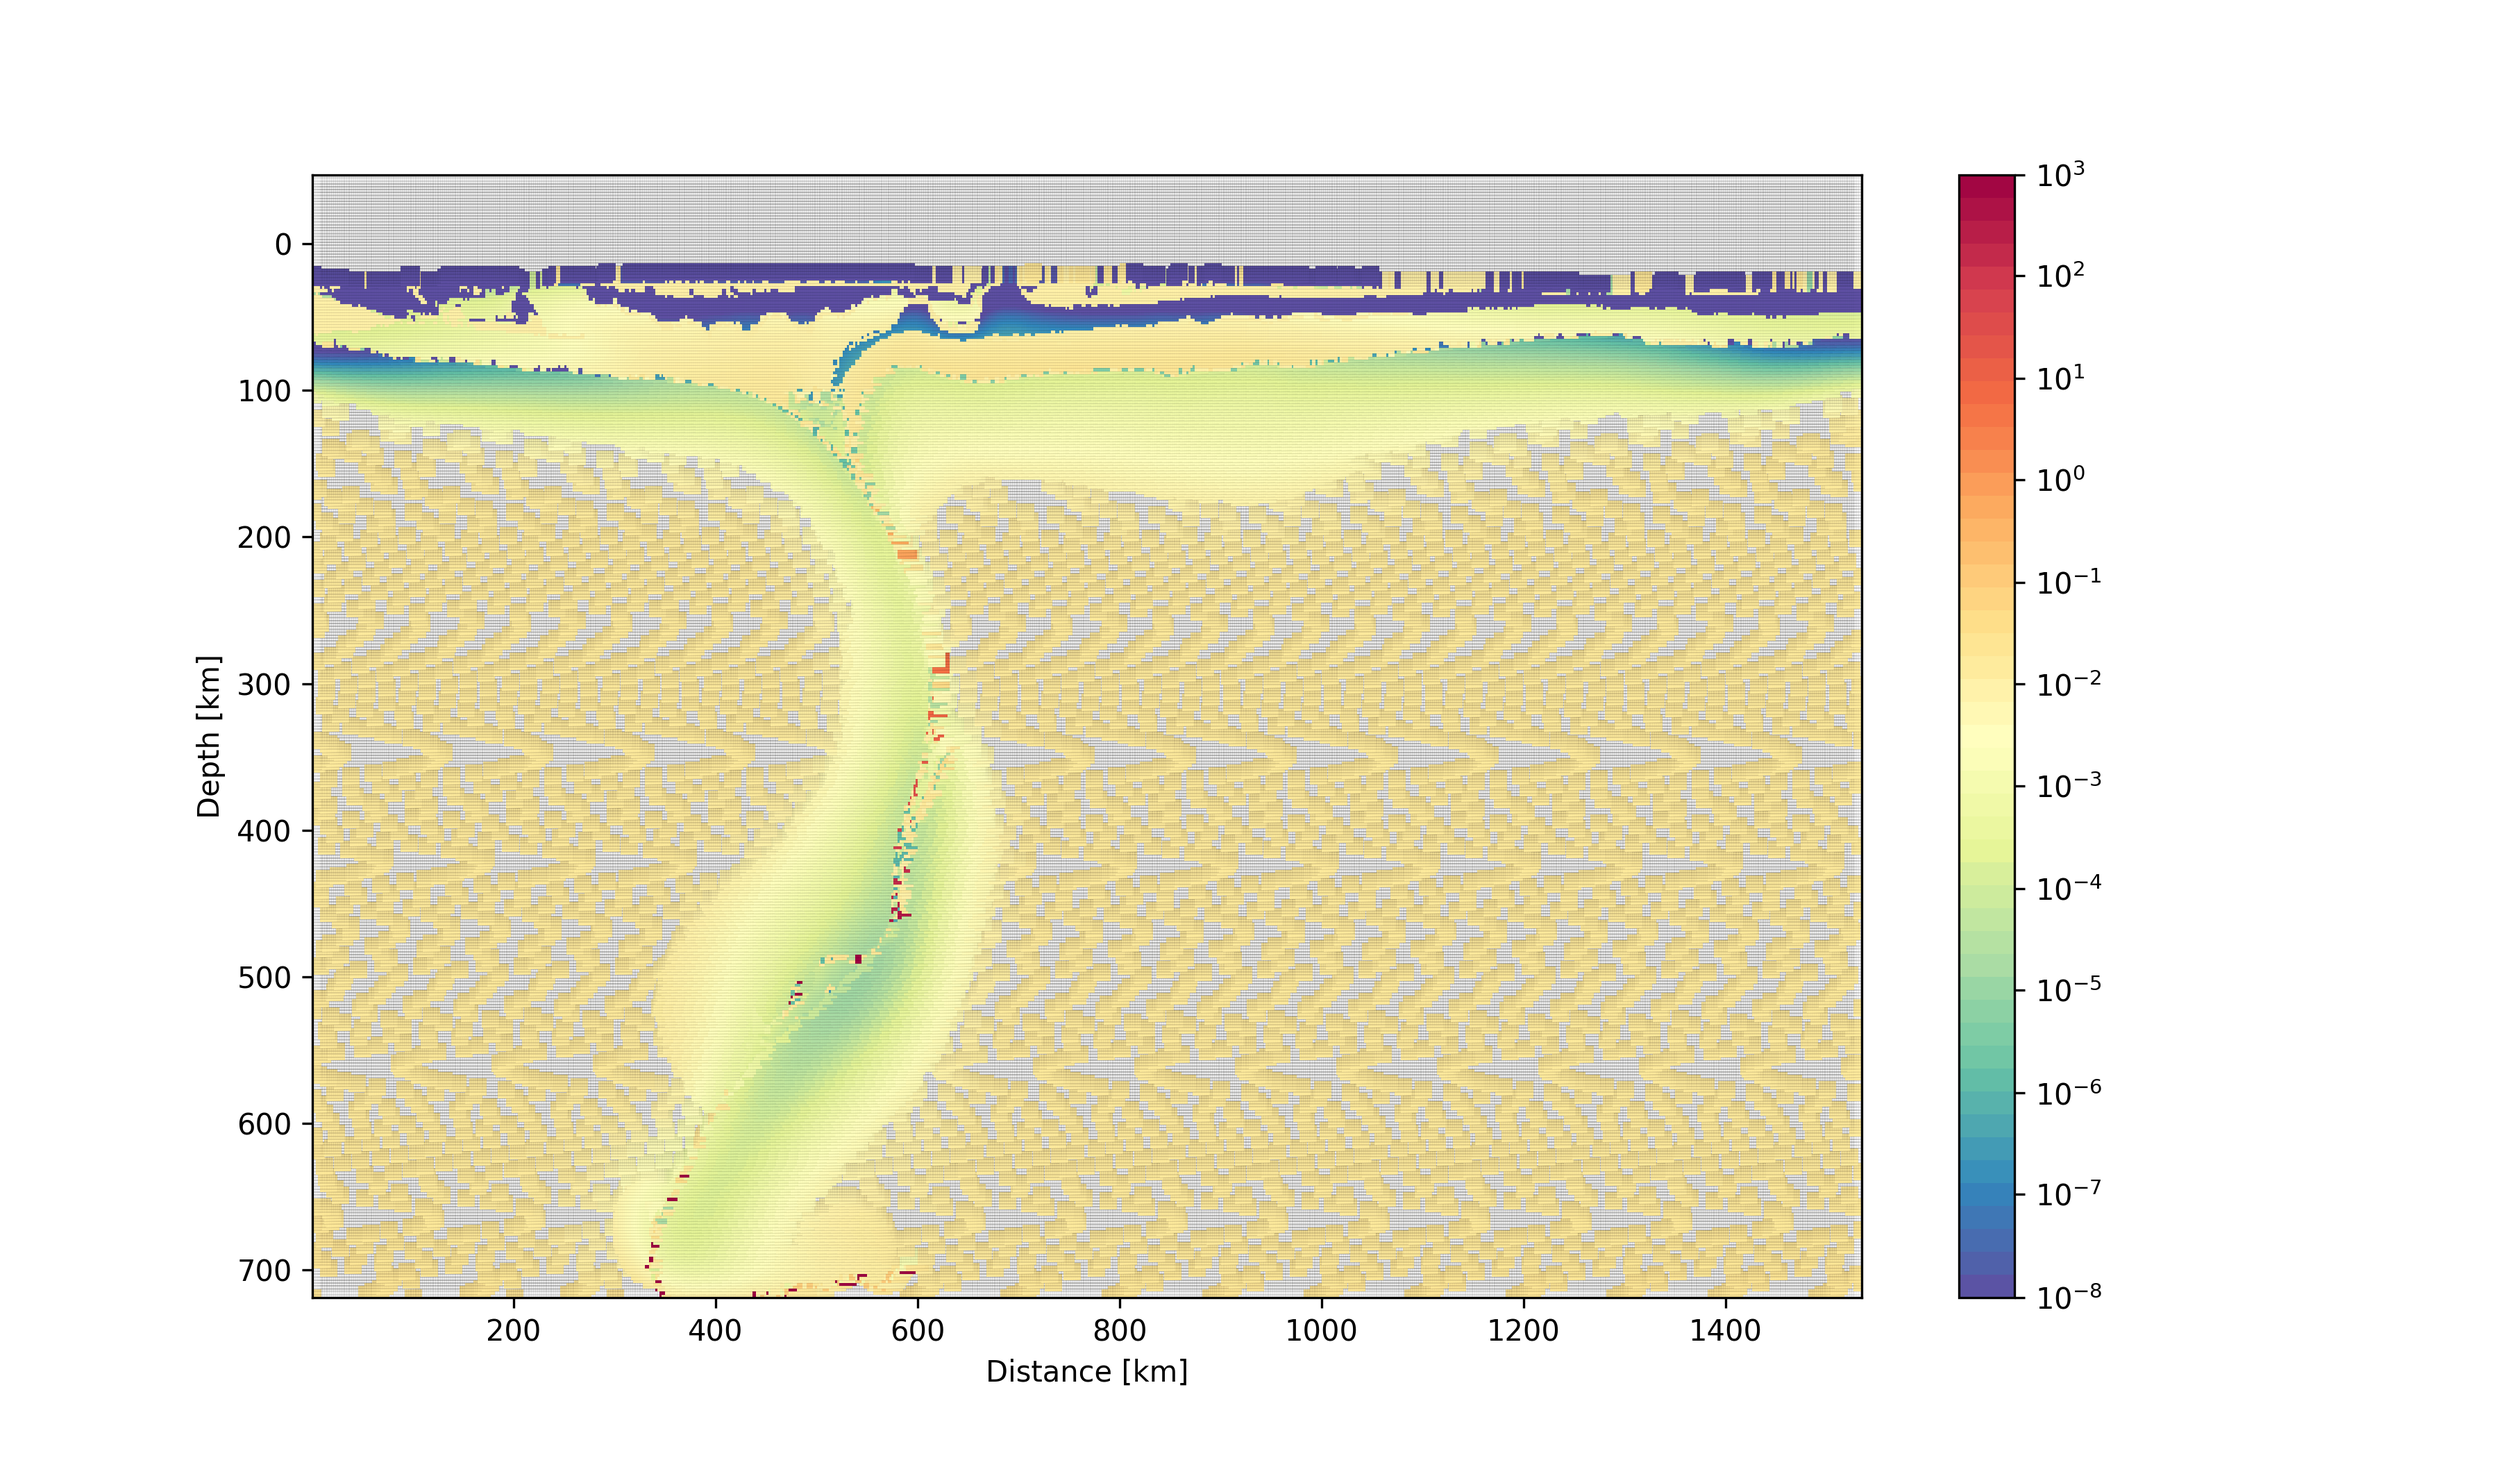
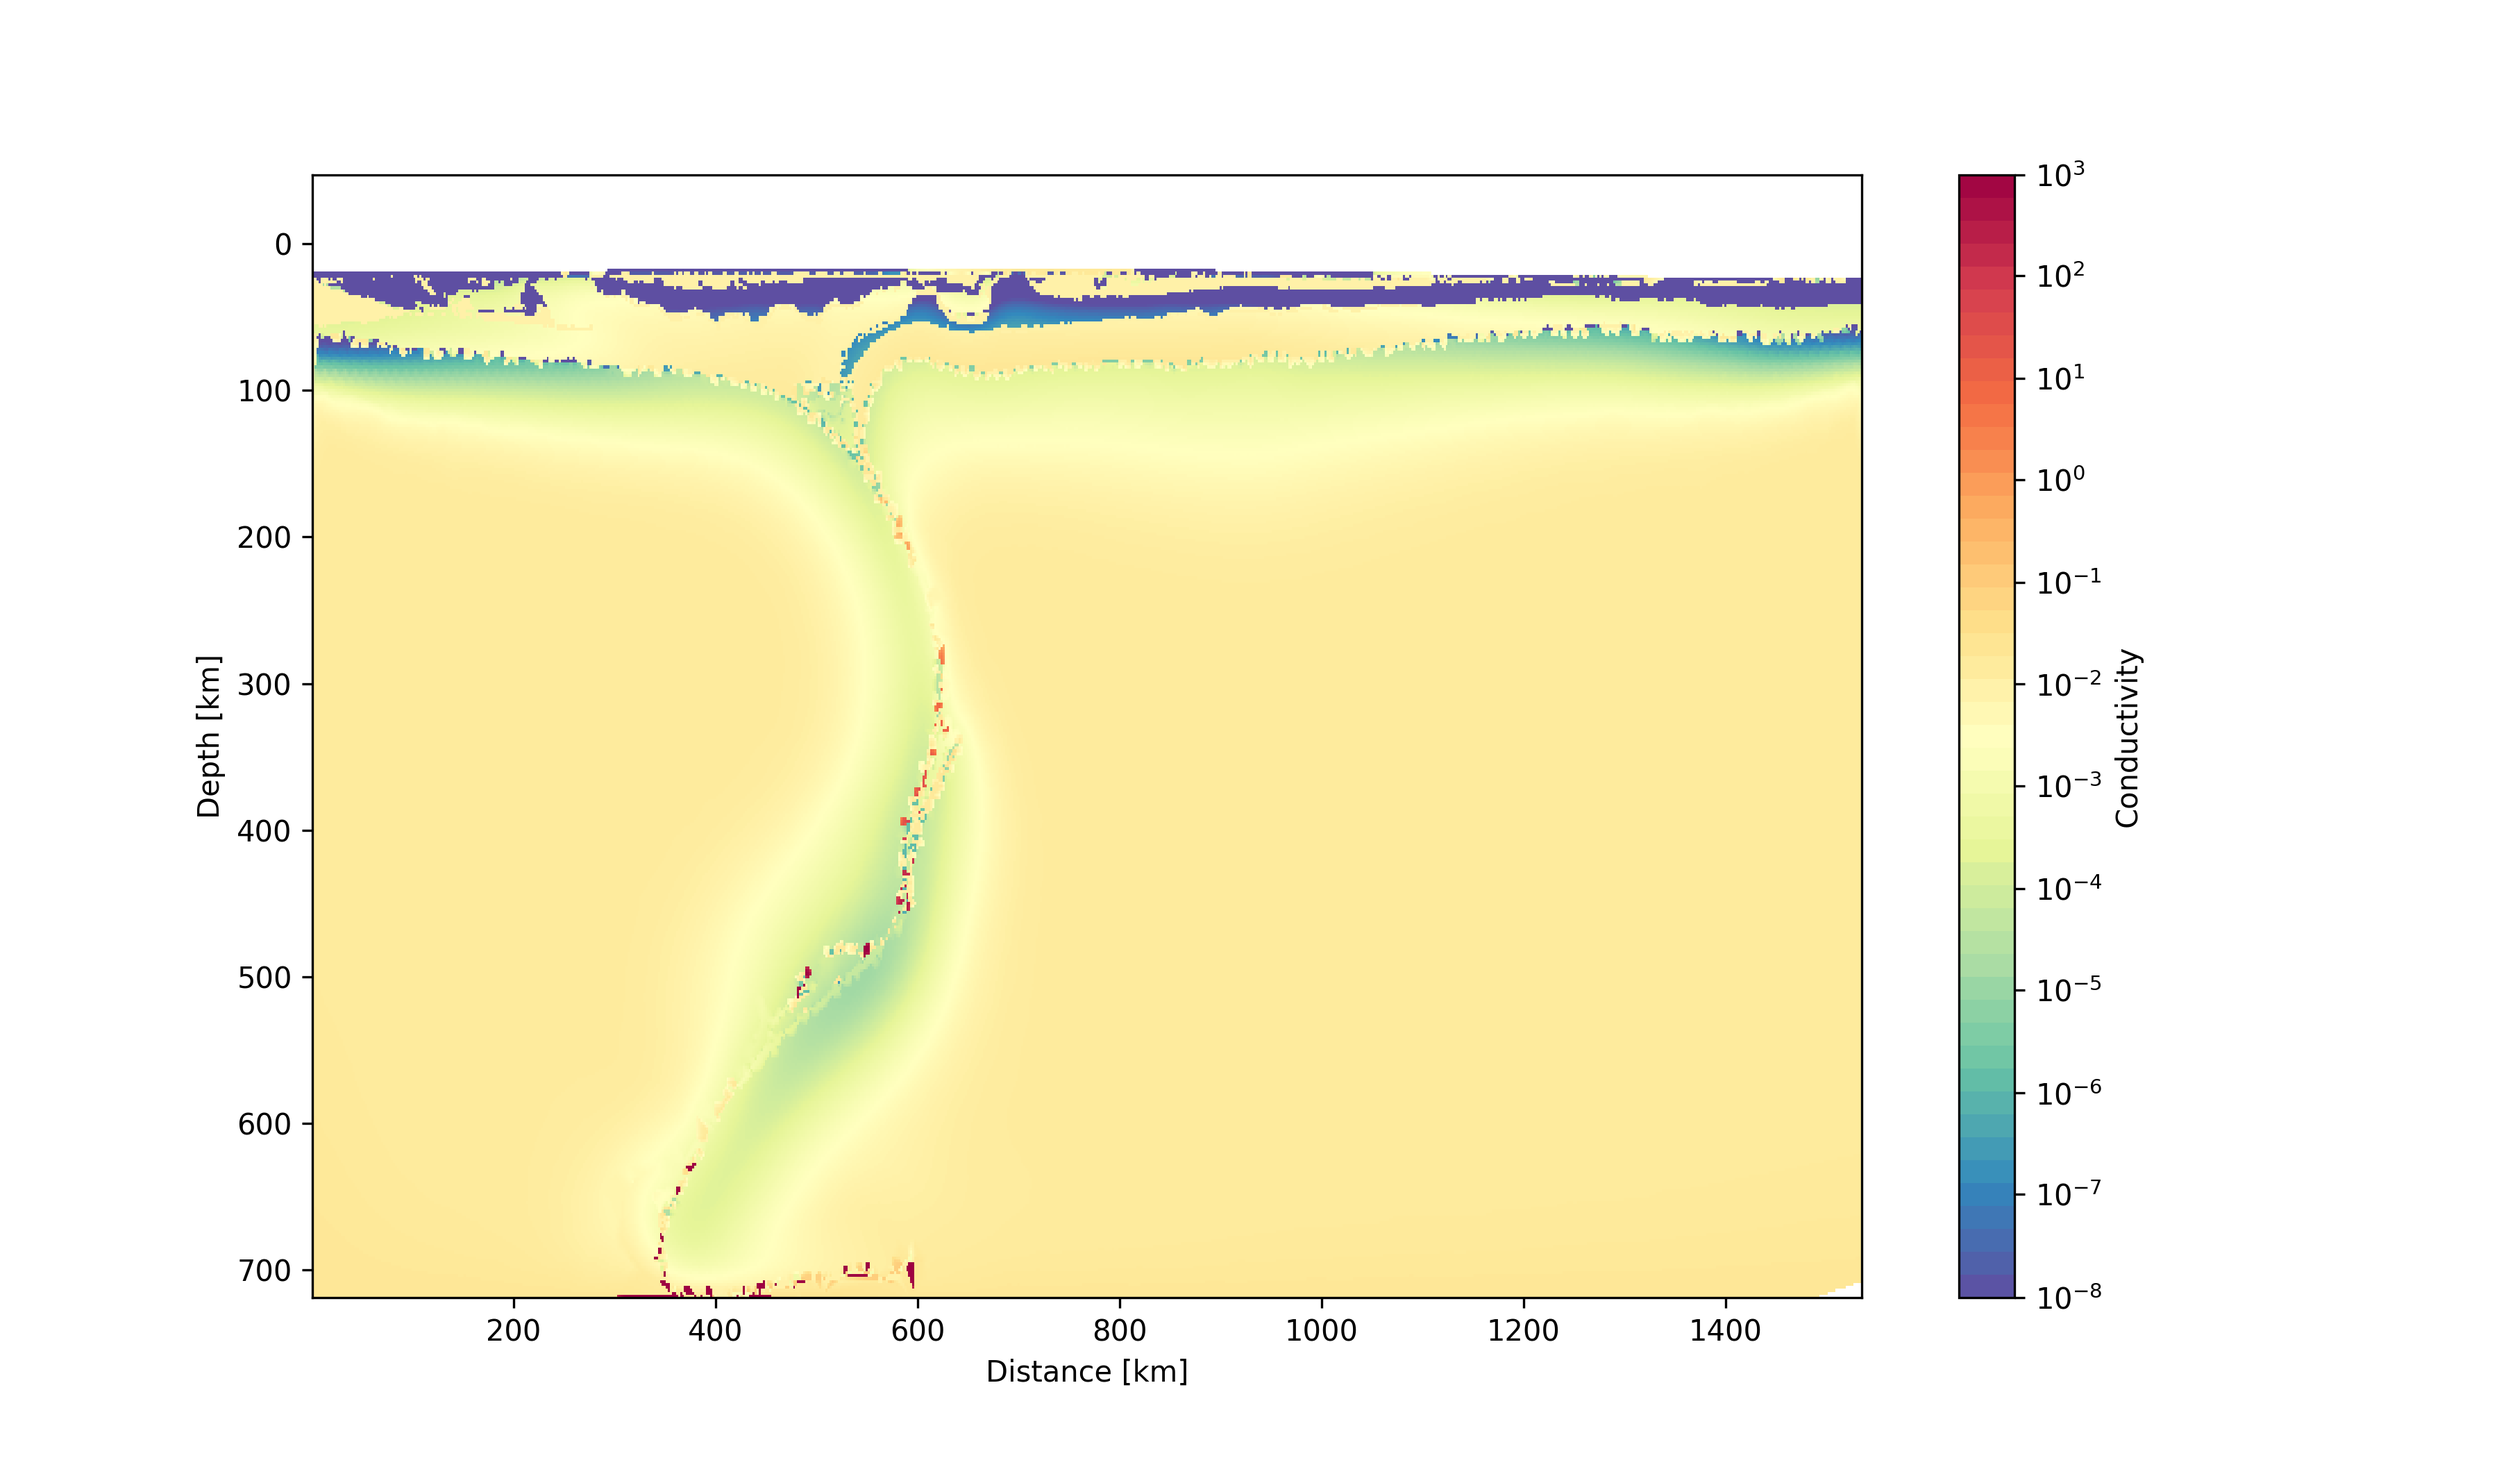
whatever

Changed region(s): [[0.1244, 0.1238, 0.7467, 0.8976]]

diff --git a/SEL/geodyn/plot_models.py b/SEL/geodyn/plot_models.py
@@ -1,0 +1,104 @@
+#!/usr/bin/env python3
+import numpy as np
+import os
+
+def plot_2D_underworld_Field_scatter(x_array = None, y_array = None, Field = None,cblimit_up = None, cblimit_down = None, log_bool = False,cb_name = 'coolwarm',**kwargs):
+
+	import matplotlib.pyplot as plt
+	import matplotlib.colors as colors
+	
+	plot_save = kwargs.pop('plot_save', False)
+	label = kwargs.pop('label', 'Interpolated_UW_Figure.png')
+
+	fig = plt.figure(figsize = (12,7))
+	ax = plt.subplot(111)
+	ax.set_ylim(np.amax(y_array),np.amin(y_array))
+	ax.set_xlim(np.amin(x_array),np.amax(x_array))
+	ax.set_ylabel('Depth [km]')
+	ax.set_xlabel('Distance [km]')
+	if log_bool == True:
+		cax = ax.scatter(x_array, y_array ,c = Field, cmap = cb_name, norm=colors.LogNorm(), marker = 's', linewidth = 0.005, edgecolor = 'k')
+	elif log_bool == False:
+		cax = ax.scatter(x_array, y_array ,c = Field, cmap = cb_name, marker = 's', linewidth = 0.005, edgecolor = 'k')
+	cax.set_clim(cblimit_down,cblimit_up)
+
+	if log_bool == True:
+		bondary = np.logspace(np.log10(cblimit_down),np.log10(cblimit_up))
+		tick_array = np.arange(np.log10(cblimit_down),np.log10(cblimit_up)+1, 1)
+		tick_array_list = 10.0**tick_array
+		cbar_cax = fig.colorbar(cax,boundaries=bondary ,orientation="vertical", pad=0.05,
+		ticks = tick_array_list, ax = ax)
+		
+	elif log_bool == False:
+		bondary = np.linspace(cblimit_down, cblimit_up)
+		cbar_cax = fig.colorbar(cax,boundaries=bondary ,orientation="vertical", pad=0.05, ax = ax)
+		
+	if plot_save == False:
+		plt.show()
+	elif plot_save == True:
+		plt.savefig(label, dpi = 300)
+		print('The file is saved as: ' + label + ' at location: ' + os.getcwd())
+		
+
+def plot_2D_underworld_Field(xmesh = None, ymesh = None, Field = None,cblimit_up = None, cblimit_down = None, log_bool = False,cb_name = 'coolwarm',**kwargs):
+
+	import matplotlib.pyplot as plt
+	import matplotlib.colors as colors
+	
+	plot_save = kwargs.pop('plot_save', False)
+	label = kwargs.pop('label', 'Interpolated_UW_Figure.png')
+	cbar_label = kwargs.pop('cbar_label',None)
+		
+	fnew = np.squeeze(Field, axis=2)
+	
+	contains_nan = np.isnan(fnew).any()
+	
+	if contains_nan == True:
+	
+		from scipy.interpolate import griddata
+		#interpolating 
+		
+		xi = xmesh
+		yi = ymesh
+		x_i,  y_i = np.meshgrid(xmesh,ymesh)
+		
+		mask = np.isnan(fnew)
+		points = np.column_stack((x_i[~mask], y_i[~mask]))
+		values = fnew[~mask]
+				
+		fnew = griddata(points, values, (x_i, y_i),method = 'linear')
+		
+	else:
+	
+		xi = xmesh
+		yi = ymesh
+
+	fig = plt.figure(figsize = (12,7))
+	ax = plt.subplot(111)
+	if log_bool == True:
+		cax = ax.pcolormesh(xi, yi, fnew, cmap = cb_name, norm=colors.LogNorm())
+	elif log_bool == False:
+		cax = ax.pcolor(xi, yi, fnew, cmap = cb_name)
+		
+	cax.set_clim(cblimit_down,cblimit_up)
+	ax.set_ylim(np.amax(ymesh),np.amin(ymesh))
+	ax.set_xlim(np.amin(xmesh),np.amax(xmesh))
+	ax.set_ylabel('Depth [km]')
+	ax.set_xlabel('Distance [km]')
+	
+	if log_bool == True:
+		bondary = np.logspace(np.log10(cblimit_down),np.log10(cblimit_up))
+		tick_array = np.arange(np.log10(cblimit_down),np.log10(cblimit_up)+1, 1)
+		tick_array_list = 10.0**tick_array
+		cbar_cax = fig.colorbar(cax,boundaries=bondary ,orientation="vertical", pad=0.05,
+		ticks = tick_array_list, ax = ax,label = cbar_label)
+	elif log_bool == False:
+		bondary = np.linspace(cblimit_down, cblimit_up)
+		cbar_cax = fig.colorbar(cax,boundaries=bondary ,orientation="vertical", pad=0.05, ax = ax,label = cbar_label)
+		
+	if plot_save == False:
+		plt.show()
+	elif plot_save == True:
+		plt.savefig(label, dpi = 300)
+		print('The file is saved as: ' + label + ' at location: ' + os.getcwd())
+	

diff --git a/tools/convert_uw_model_2_mt.py b/tools/convert_uw_model_2_mt.py
@@ -13,6 +13,7 @@ from material import Material
 from model import Model
 from geodyn.read_uw_model import *
 from geodyn.interpolate_fields import interpolate_2d_fields
+from geodyn.plot_models import *
 
 #setting up source folder of the files
 source_folder = os.path.join('.','example_data','uwconversion')
@@ -38,7 +39,7 @@ material_h5= material_fnm, strain_h5 = pstrain_fnm, stress_h5 = stress_fnm, melt
 material_names = read_uw_material_names_from_py_input(py_start_fnm)
 
 #reading 2d mesh params mesh itself, mesh_centers mesh, array in x direction, array in y direction, borders of the mesh[max_x, min_x, max_y, min_y]
-mesh, mesh_center, x_mesh, y_mesh, borders_mesh = setup_2d_mesh(mesh_data)
+mesh, mesh_center, x_mesh, y_mesh, x_mesh_centers, y_mesh_centers, borders_mesh = setup_2d_mesh(mesh_data)
 
 #getting material_array
 material_array, air_material_idx = setup_material(material_data, material_names)
@@ -67,7 +68,8 @@ pstrain_array = interpolate_2d_fields(mesh,pstrain_array,mesh_center)
 material_array = interpolate_2d_fields(mesh,material_array,mesh_center,method = 'nearest') #using nearest for the material for them to stay integers
 strain_rate_array = interpolate_2d_fields(mesh_center,strain_rate_array,mesh_center,method = 'nearest') #using nearest for the material for them to stay integers
 
-plot_2D_underworld_Field(x_array = mesh_center[0], y_array = mesh_center[1], Field = material_array,cblimit_up = len(material_names), cblimit_down = 0, log_bool=False, cb_name = 'tab20b',plot_save = True, label = 'material.png')
+# plot_2D_underworld_Field(xmesh = x_mesh_centers, ymesh = y_mesh_centers, Field = temp_array, cblimit_up = 1500, cblimit_down = 600, log_bool=False, cb_name = 'coolwarm', label = 'temperature.png',cbar_label = 'Temperature [C]', plot_save = True)
+# plot_2D_underworld_Field(xmesh = x_mesh_centers, ymesh = y_mesh_centers, Field = material_array,cblimit_up = len(material_names), cblimit_down = 0, log_bool=False, cb_name = 'tab20b',label = 'material.png', cbar_label = 'Material Index',plot_save = True)
 
 sel_object = SEL.SEL()
 # list_garnet_models = sel_object.list_mineral_econd_models('garnet')
@@ -136,5 +138,4 @@ material_skip_list = [None, 5, 50,None,None,None, None,None,None,None,None,None,
 mt_model_object = Model(material_list = material_object_list, material_array = material_array, T = temp_array, P = pressure_array, melt = melt_array, p_strain = pstrain_array, strain_rate = strain_rate_array, material_node_skip_rate_list = material_skip_list)
 backgr_cond = mt_model_object.calculate_conductivity(type = 'background')
 
-
-plot_2D_underworld_Field(x_array = mesh_center[0], y_array = mesh_center[1], Field = backgr_cond, cblimit_up = 1e3, cblimit_down = 1e-8, log_bool=True, cb_name = 'Spectral_r',plot_save = True,label = 'cond.png')
+plot_2D_underworld_Field(xmesh = x_mesh_centers, ymesh = y_mesh_centers, Field = backgr_cond,cblimit_up = 1e3, cblimit_down = 1e-8, log_bool=True, cb_name = 'Spectral_r',cbar_label = 'Conductivity',plot_save = True,label = 'cond.png')

diff --git a/SEL/model.py b/SEL/model.py
@@ -195,6 +195,10 @@ class Model(object):
 				cond[material_idx] = self.cond_backgr
 							
 			print('The conductivity for the material ' + self.material_list[i].name + ' is calculated.')
+			
+		#converting all zero vals in the cond tuple to None values
+		cond = tuple(np.where(array == 0, np.nan, array) for array in cond)
+		
 		return cond
 			
 			

diff --git a/SEL/geodyn/read_uw_model.py b/SEL/geodyn/read_uw_model.py
@@ -130,7 +130,7 @@ def setup_2d_mesh(mesh_data):
 	mesh = np.meshgrid(x_mesh, y_mesh)
 	mesh_center = np.meshgrid(x_mesh_centers, y_mesh_centers)
 	
-	return mesh, mesh_center, x_mesh, y_mesh, borders_mesh
+	return mesh, mesh_center, x_mesh, y_mesh, x_mesh_centers, y_mesh_centers, borders_mesh
 		
 def setup_material(material_data, material_names):
 
